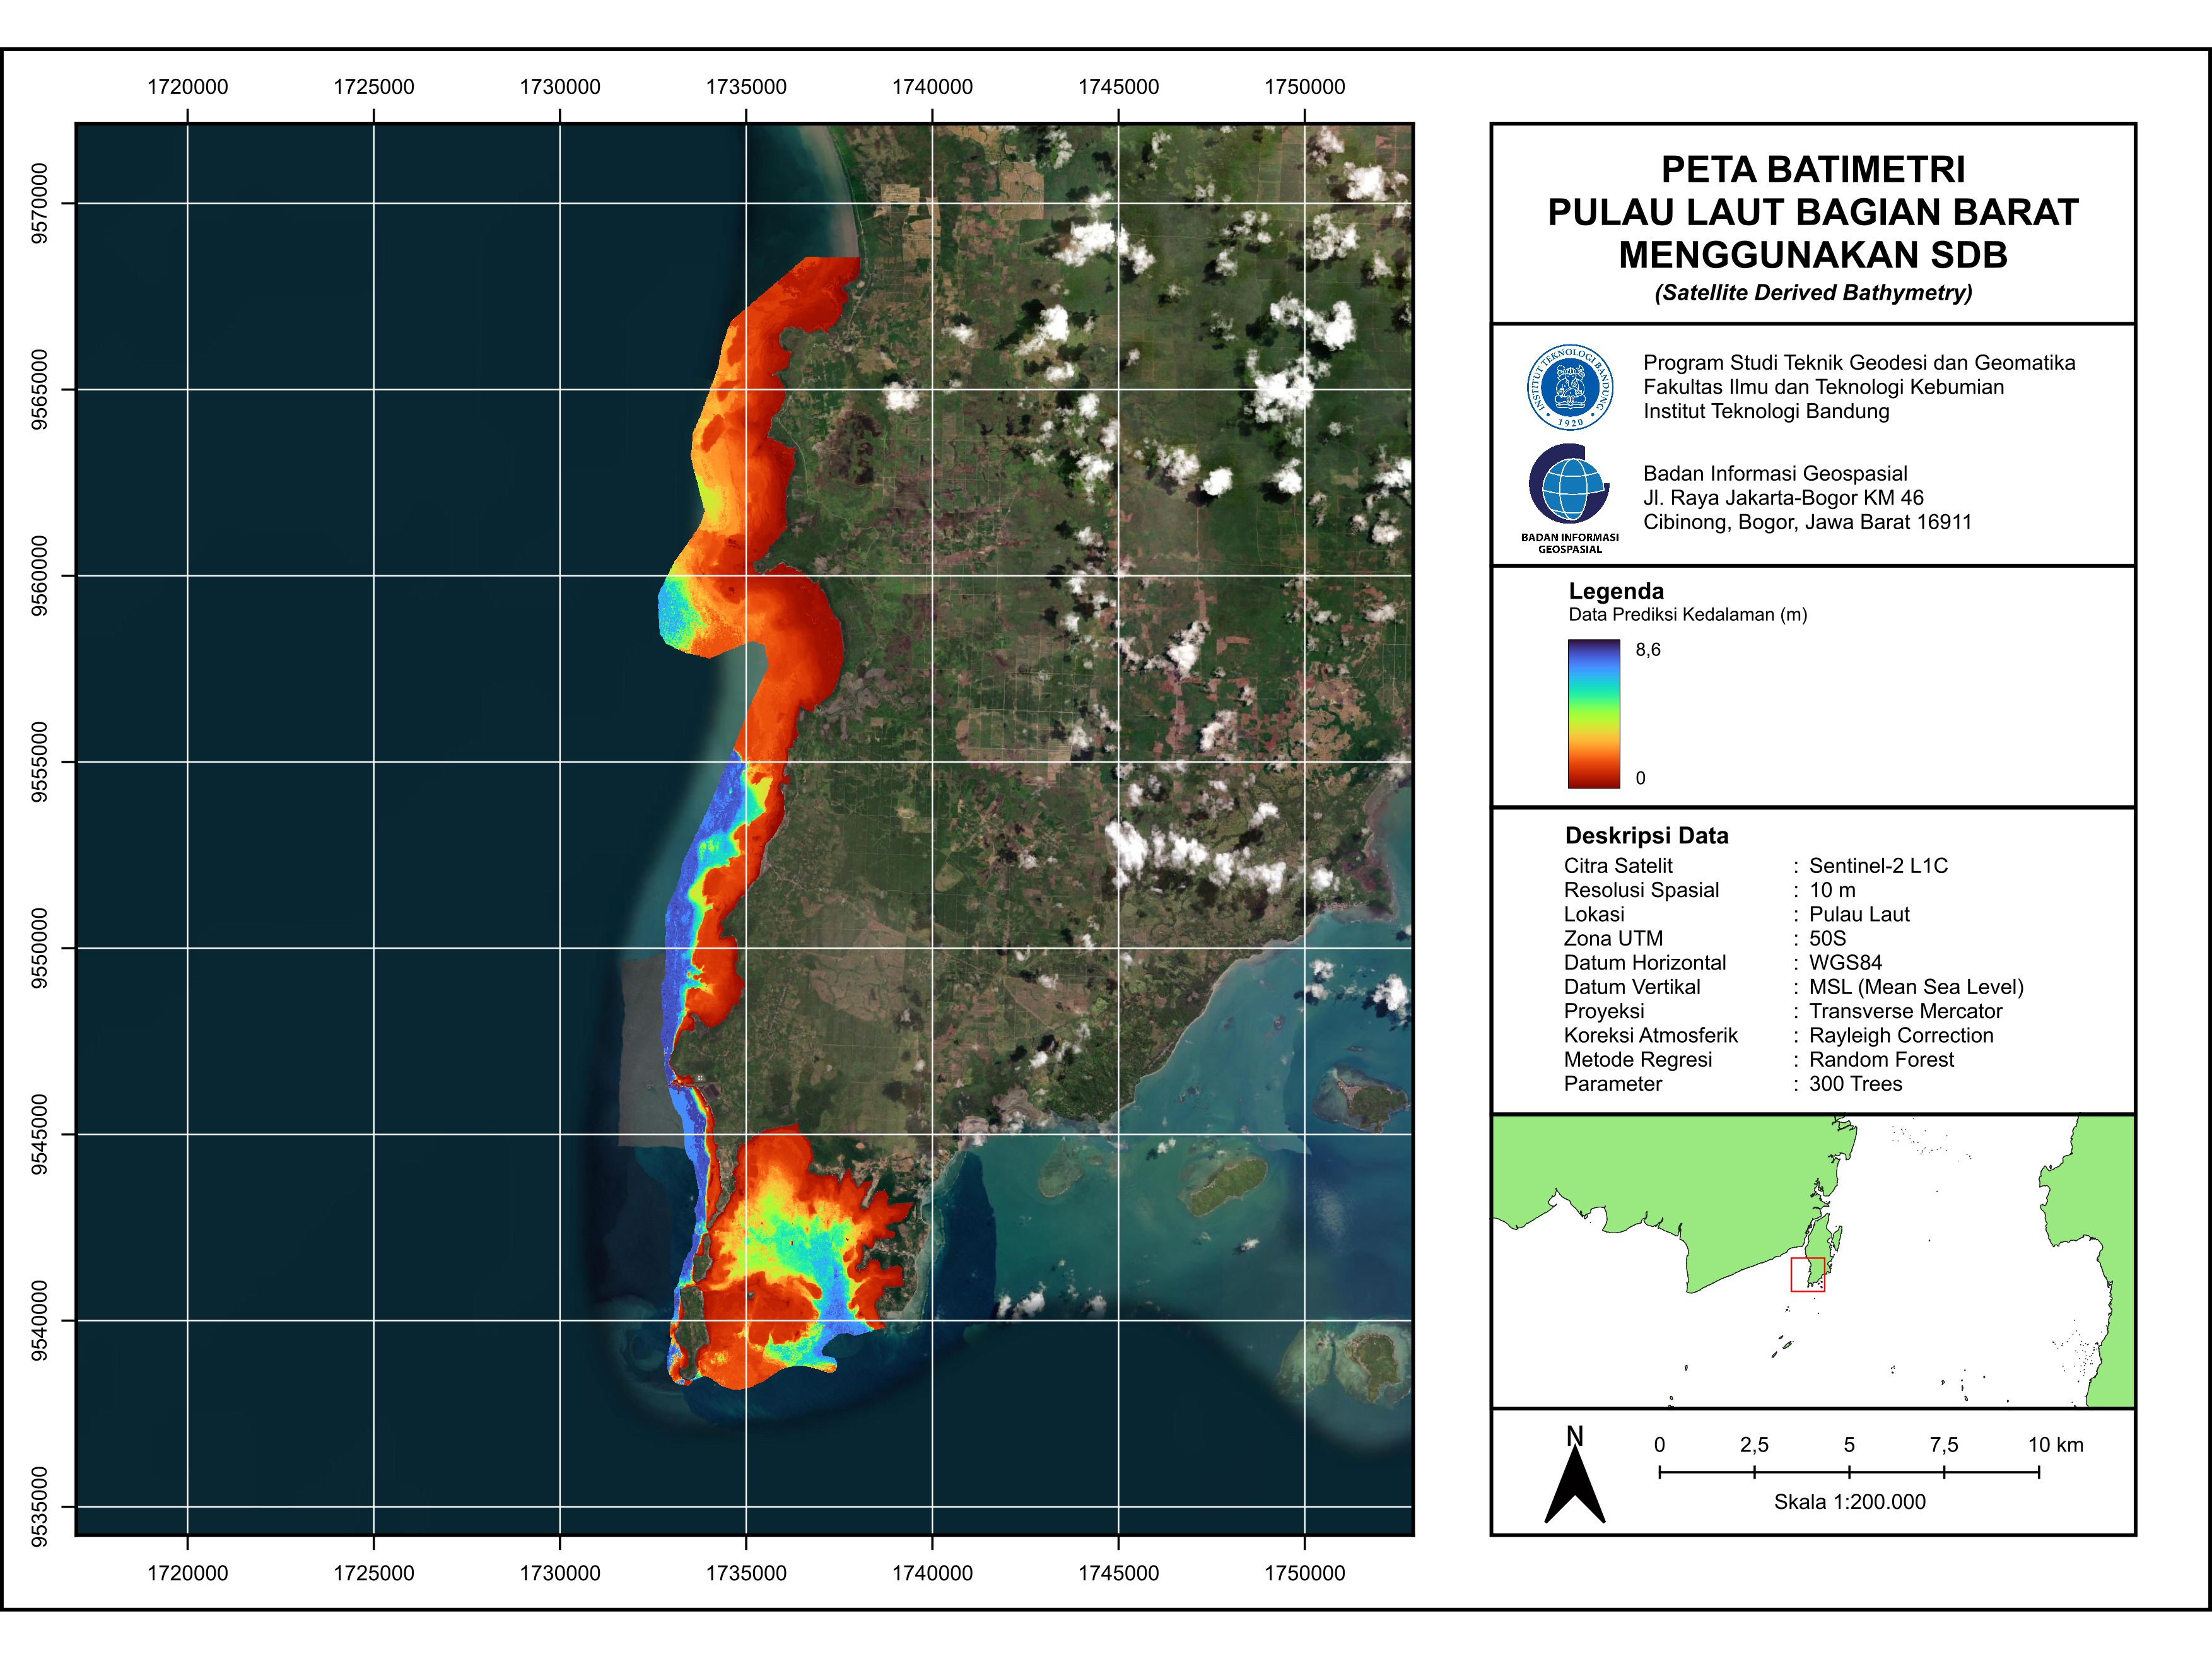
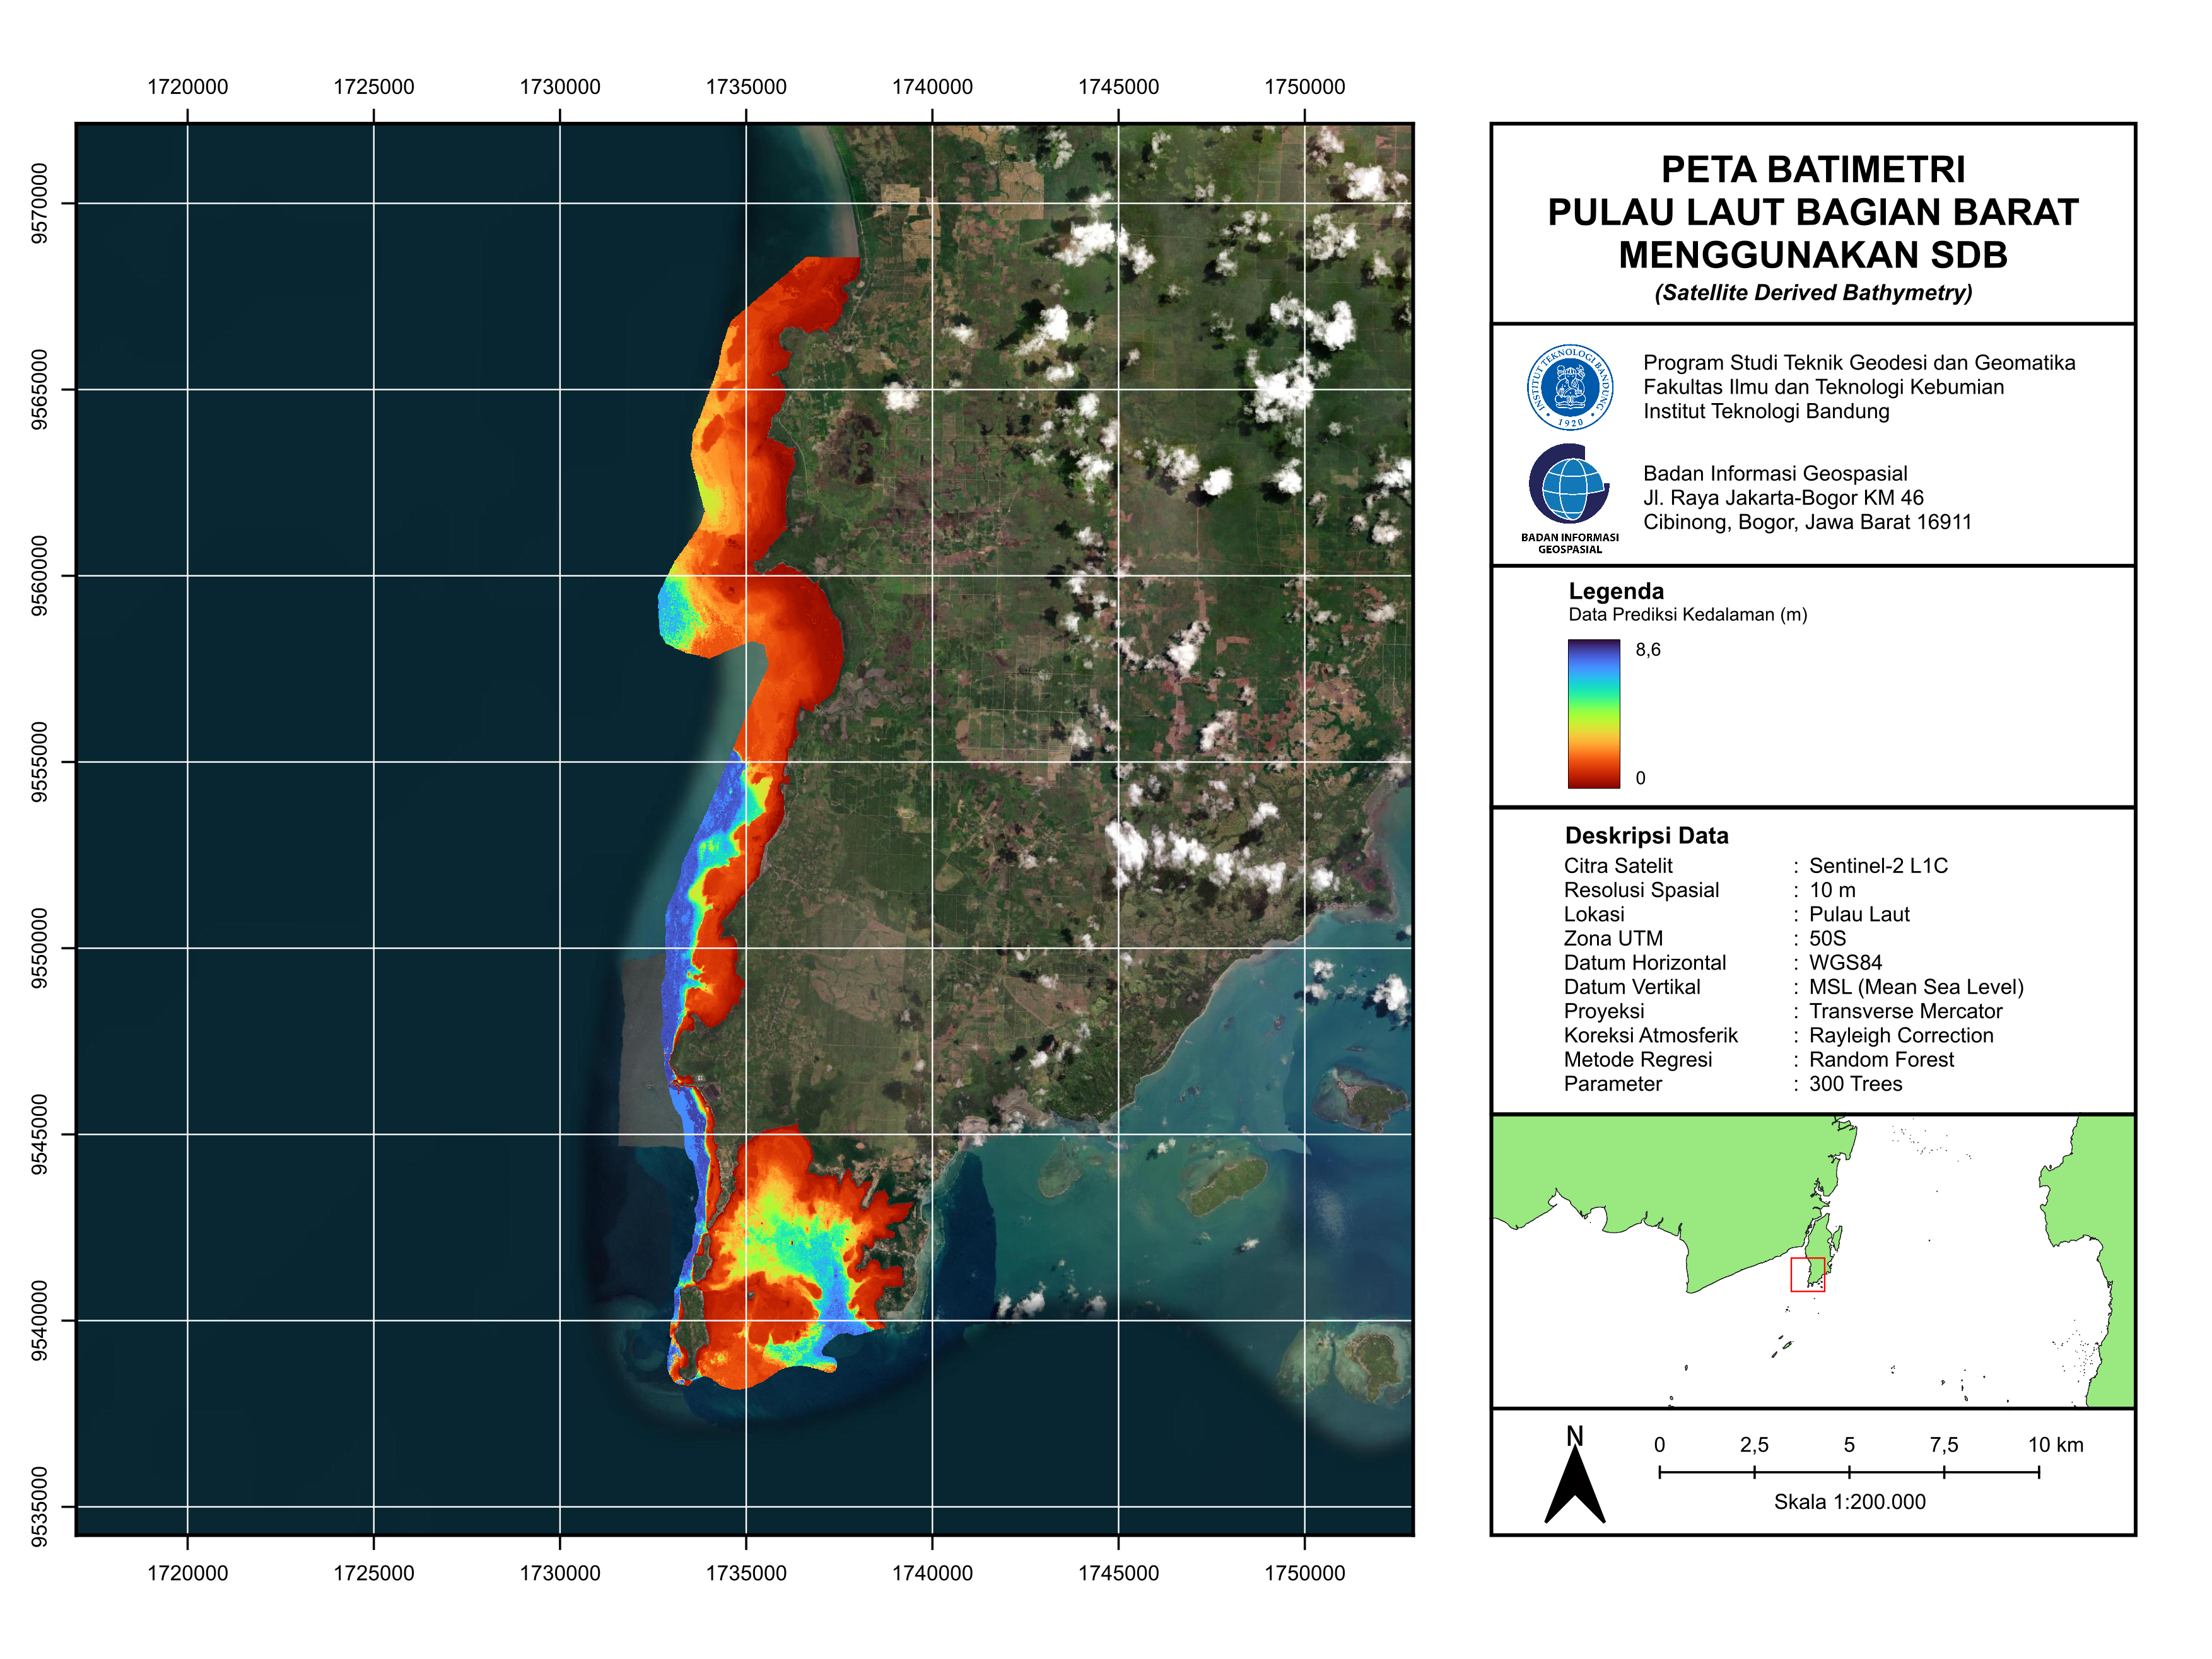
update portfolio

Changed region(s): [[0.9946, 0.0312, 1.0, 0.9977]]

diff --git a/components/PersonalLife.tsx b/components/PersonalLife.tsx
@@ -1,4 +1,7 @@
+"use client";
+
 import AnimateOnScroll from "./AnimateOnScroll";
+import { useState, useEffect } from "react";
 import Image from "next/image";
 
 const personalBio = `
@@ -42,6 +45,20 @@ const hobbies = [
 ];
 
 export default function PersonalLife() {
+  const [selectedImage, setSelectedImage] = useState<string | null>(null);
+  useEffect(() => {
+  const handleKeyDown = (e: KeyboardEvent) => {
+    if (e.key === "Escape") {
+      setSelectedImage(null);
+    }
+  };
+
+  window.addEventListener("keydown", handleKeyDown);
+
+  return () => {
+    window.removeEventListener("keydown", handleKeyDown);
+  };
+}, []);
   return (
     <section
       id="personal"
@@ -82,22 +99,28 @@ export default function PersonalLife() {
 
               {/* Two portrait photos */}
               <div className="grid grid-cols-2 gap-3">
-                <div className="relative aspect-[9/16] rounded-2xl overflow-hidden">
+                <div
+                  className="relative w-full aspect-[9/16] rounded-2xl overflow-hidden cursor-pointer"
+                  onClick={() => setSelectedImage("/images/hobbies/hobby7.jpg")}
+                >
                   <Image
-                    src="/images/hobbies/hobby7.jpg"
-                    alt="Personal Photo 1"
-                    fill
-                    className="object-cover hover:scale-105 transition-transform duration-500"
-                  />
+                  src="/images/hobbies/hobby7.jpg"
+                  alt="Personal Photo 1"
+                  fill
+                  className="object-cover hover:scale-105 transition-transform duration-500"
+                />
                 </div>
 
-                <div className="relative aspect-[9/16] rounded-2xl overflow-hidden">
+                 <div
+                  className="relative aspect-[9/16] rounded-2xl overflow-hidden cursor-pointer"
+                  onClick={() => setSelectedImage("/images/hobbies/hobby8.jpg")}
+                >
                   <Image
-                    src="/images/hobbies/hobby8.jpg"
-                    alt="Personal Photo 2"
-                    fill
-                    className="object-cover hover:scale-105 transition-transform duration-500"
-                  />
+                  src="/images/hobbies/hobby8.jpg"
+                  alt="Personal Photo 1"
+                  fill
+                  className="object-cover hover:scale-105 transition-transform duration-500"
+                />
                 </div>
               </div>
             </div>
@@ -109,13 +132,14 @@ export default function PersonalLife() {
               {hobbies.map((hobby, i) => (
                 <div
                   key={i}
-                  className="group relative aspect-[3/4] rounded-2xl overflow-hidden"
+                  className="group relative aspect-[3/4] rounded-2xl overflow-hidden cursor-pointer"
+                  onClick={() => setSelectedImage(hobby.src)}
                 >
                   <Image
                     src={hobby.src}
                     alt={hobby.caption}
                     fill
-                    className="object-cover group-hover:scale-110 transition-transform duration-500"
+                    className="object-contain group-hover:scale-110 transition-transform duration-500"
                   />
 
                   {/* Overlay */}
@@ -136,6 +160,35 @@ export default function PersonalLife() {
           </AnimateOnScroll>
         </div>
       </div>
+      {selectedImage && (
+  <div
+    className="fixed inset-0 z-[999] bg-black/80 backdrop-blur-sm
+               flex items-center justify-center p-4"
+    onClick={() => setSelectedImage(null)}
+  >
+    <div
+      className="relative w-full h-[90vh] max-w-6xl
+                 rounded-2xl overflow-hidden"
+      onClick={(e) => e.stopPropagation()}
+    >
+      <Image
+        src={selectedImage}
+        alt="Expanded image"
+        fill
+        className="object-contain"
+      />
+
+      {/* Close button */}
+      <button
+        className="absolute top-4 right-4 text-white text-4xl
+                   hover:text-sky-300 transition-colors"
+        onClick={() => setSelectedImage(null)}
+      >
+        ×
+      </button>
+    </div>
+  </div>
+)}
     </section>
   );
 }

diff --git a/components/OrganizationalExperience.tsx b/components/OrganizationalExperience.tsx
@@ -2,6 +2,7 @@
 
 import AnimateOnScroll from "./AnimateOnScroll";
 import Image from "next/image";
+import { useState, useEffect } from "react";
 
 const orgs = [
   {
@@ -105,6 +106,21 @@ const orgs = [
 ];
 
 export default function OrganizationalExperience() {
+  const [selectedImage, setSelectedImage] = useState<string | null>(null);
+  useEffect(() => {
+  const handleKeyDown = (e: KeyboardEvent) => {
+    if (e.key === "Escape") {
+      setSelectedImage(null);
+    }
+  };
+
+  window.addEventListener("keydown", handleKeyDown);
+
+  return () => {
+    window.removeEventListener("keydown", handleKeyDown);
+  };
+}, []);
+
   return (
     <section
       id="organizations"
@@ -170,12 +186,13 @@ export default function OrganizationalExperience() {
                   }`}
                 >
                   {o.photos.map((photo, pi) => (
-                    <div
-                      key={pi}
-                      className={`relative ${
-                        photo.aspect ?? "aspect-video"
-                      } rounded-xl overflow-hidden`}
-                    >
+                  <div
+                    key={pi}
+                    className={`relative ${
+                      photo.aspect ?? "aspect-video"
+                    } rounded-xl overflow-hidden cursor-pointer`}
+                    onClick={() => setSelectedImage(photo.src)}
+                  >
                       <Image
                         src={photo.src}
                         alt={`${o.org} photo ${pi + 1}`}
@@ -205,6 +222,35 @@ export default function OrganizationalExperience() {
           ))}
         </div>
       </div>
+      {selectedImage && (
+  <div
+    className="fixed inset-0 z-[999] bg-black/80 backdrop-blur-sm
+               flex items-center justify-center p-4"
+    onClick={() => setSelectedImage(null)}
+  >
+      <div
+        className="relative w-full h-[90vh] max-w-6xl
+                  rounded-2xl overflow-hidden"
+        onClick={(e) => e.stopPropagation()}
+      >
+        <Image
+          src={selectedImage}
+          alt="Expanded image"
+          fill
+          className="object-contain"
+        />
+
+      {/* Close button */}
+      <button
+        className="absolute top-1 right-1 text-white text-4xl
+                   hover:text-sky-300 transition-colors"
+        onClick={() => setSelectedImage(null)}
+      >
+        ×
+      </button>
+    </div>
+  </div>
+)}
     </section>
   );
 }

diff --git a/components/WorkExperience.tsx b/components/WorkExperience.tsx
@@ -3,6 +3,8 @@
 import AnimateOnScroll from "./AnimateOnScroll";
 import Image from "next/image";
 
+import { useState, useEffect } from "react";
+
 const experiences = [
   {
     id: "phr",
@@ -86,6 +88,7 @@ const experiences = [
         src: "/images/work/xcel1.jpg",
         label: "XCEL Documentation 1",
         aspect: "aspect-[3/4]",
+        rounded: "rounded-3xl",
       },
       {
         src: "/images/work/xcel2.jpg",
@@ -102,6 +105,20 @@ const experiences = [
 ];
 
 export default function WorkExperience() {
+  const [selectedImage, setSelectedImage] = useState<string | null>(null);
+  useEffect(() => {
+  const handleKeyDown = (e: KeyboardEvent) => {
+    if (e.key === "Escape") {
+      setSelectedImage(null);
+    }
+  };
+
+  window.addEventListener("keydown", handleKeyDown);
+
+  return () => {
+    window.removeEventListener("keydown", handleKeyDown);
+  };
+}, []);
   return (
     <section id="work" className="bg-white/50 py-20">
       <div className="max-w-5xl mx-auto px-6">
@@ -173,7 +190,8 @@ export default function WorkExperience() {
                         key={pi}
                         className={`relative ${
                           photo.aspect ?? "aspect-video"
-                        } rounded-xl overflow-hidden`}
+                        } ${photo.rounded ?? "rounded-xl"} overflow-hidden cursor-pointer`}
+                        onClick={() => setSelectedImage(photo.src)}
                       >
                         <Image
                           src={photo.src}
@@ -190,6 +208,33 @@ export default function WorkExperience() {
           ))}
         </div>
       </div>
+      {selectedImage && (
+  <div
+    className="fixed inset-0 z-[999] bg-black/80 backdrop-blur-sm
+               flex items-center justify-center p-4"
+    onClick={() => setSelectedImage(null)}
+  >
+    <div
+      className="relative w-full max-w-5xl max-h-[90vh] aspect-video"
+      onClick={(e) => e.stopPropagation()}
+    >
+      <Image
+        src={selectedImage}
+        alt="Expanded image"
+        fill
+        className="object-contain rounded-2xl"
+      />
+
+      {/* Close button */}
+      <button
+        className="absolute -top-12 right-0 text-white text-3xl"
+        onClick={() => setSelectedImage(null)}
+      >
+        ×
+      </button>
+    </div>
+  </div>
+)}
     </section>
   );
 }

diff --git a/app/layout.tsx b/app/layout.tsx
@@ -15,9 +15,12 @@ const header = Work_Sans({
 });
 
 export const metadata: Metadata = {
-  title: "Kamil Hayyunaji Fabriano — Geodesy & Geomatics Engineer",
+  title: "Kamil's Portfolio",
   description:
     "Portfolio of Kamil Hayyunaji Fabriano, Geodesy and Geomatics Engineering student at ITB with expertise in hydrography, GIS, and spatial data analysis.",
+    icons: {
+    icon: "/public  /favicon.png",
+  },
 };
 
 export default function RootLayout({